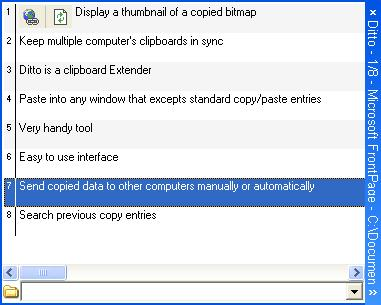
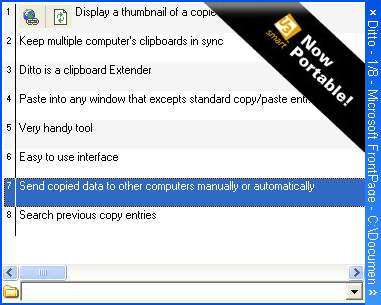
added link to U3 web site for Ditto
git-svn-id: svn://svn.code.sf.net/p/ditto-cp/code/trunk@368 595ec19a-5cb4-439b-94a8-42fb3063c22c

diff --git a/WebSite/index.php b/WebSite/index.php
@@ -137,7 +137,9 @@ Source<br>
         </table>
         </td>
         <td width="61%" valign="top">
+        <a href="http://software.u3.com/Product_Details.aspx?ProductId=236&amp;Selection=7&amp;Lang=en-US">
         <img border="0" src="Ditto_pic.jpg" width="381" height="305">
+        </a>
         <p><a href="http://www.sourceforge.net/"><img border="0" src="http://sourceforge.net/sflogo.php?group_id=84084&amp;type=5" width="210" height="52" alt="SourceForge.net Logo" ></a></td>
         <td width="61%" valign="top">
         <p>
